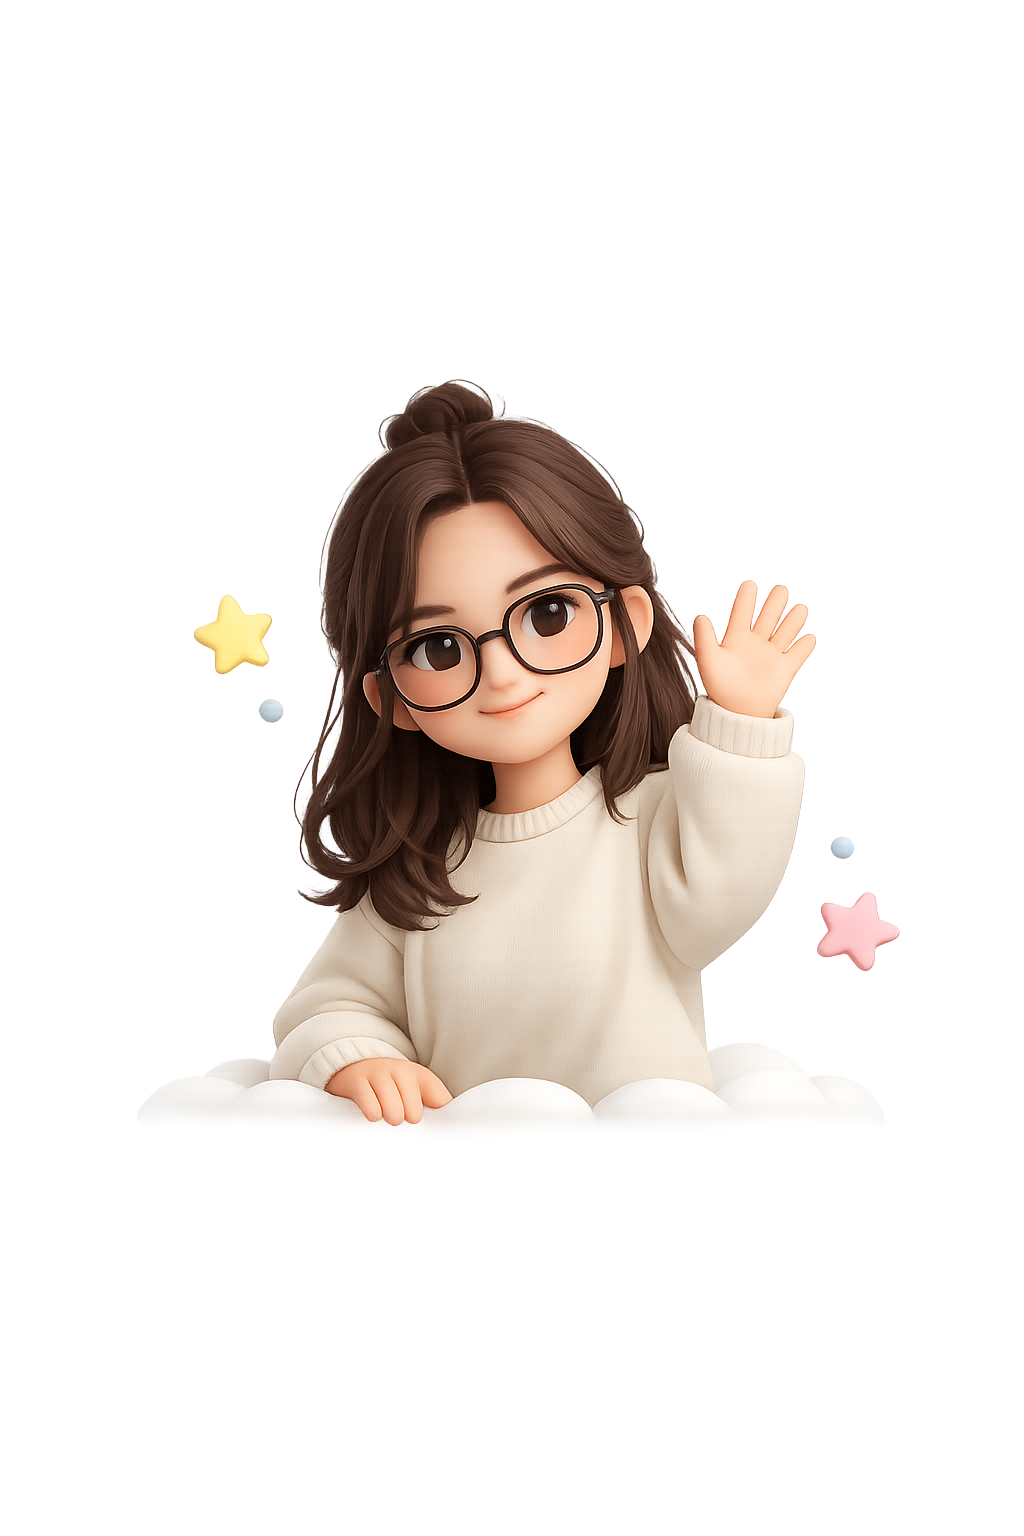
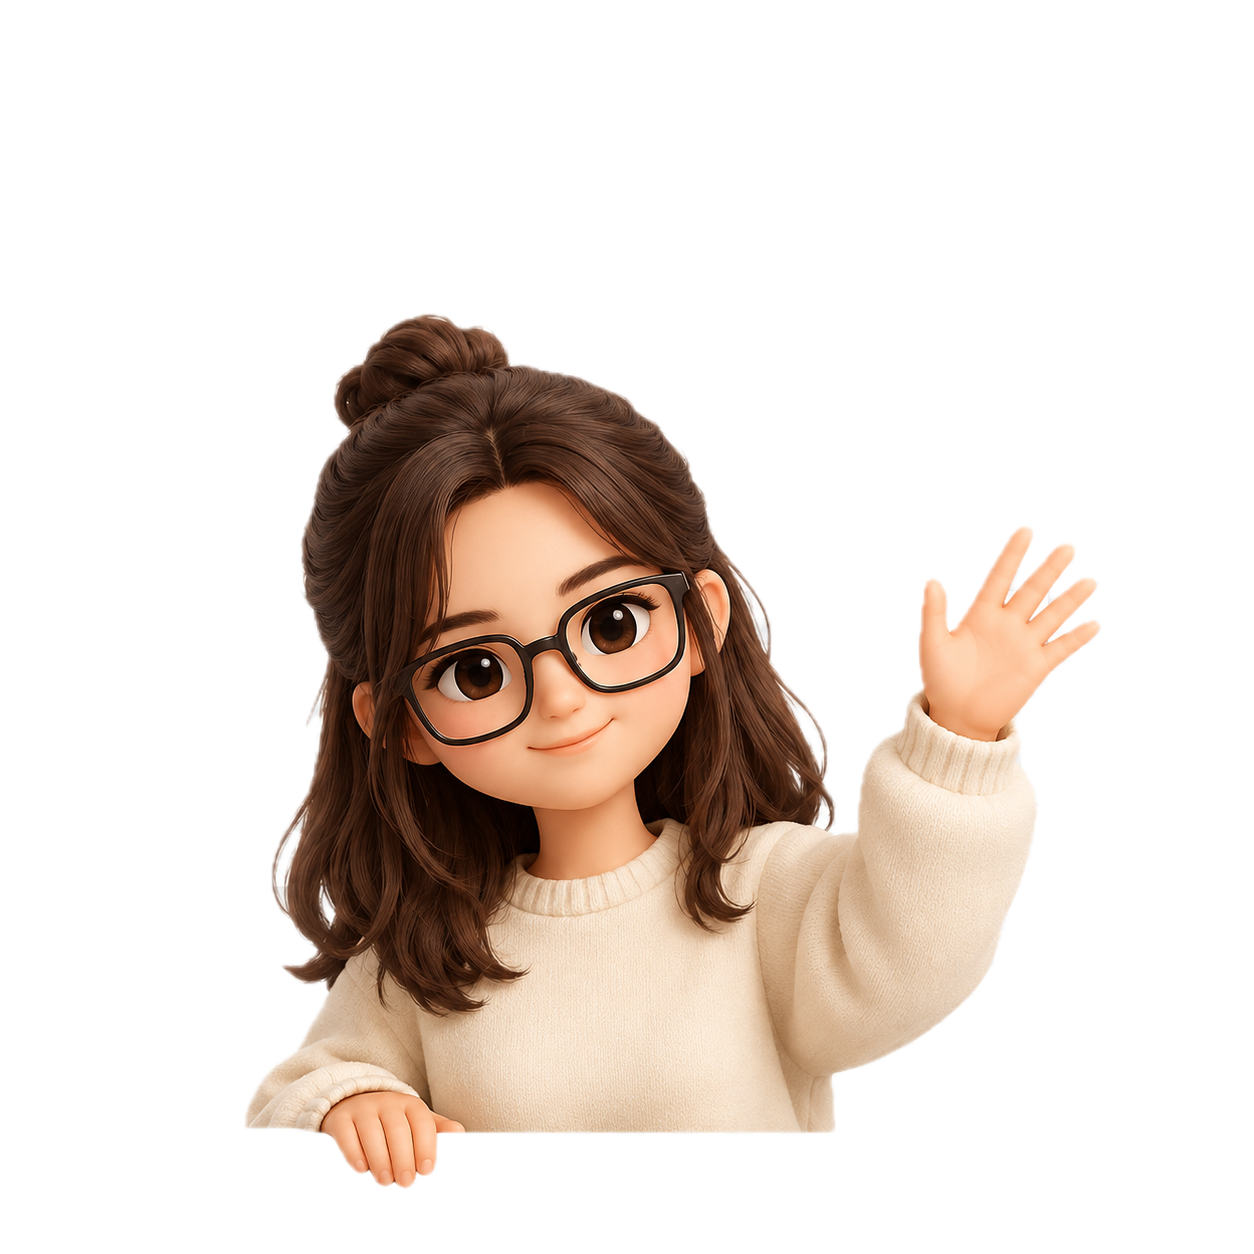
amélioration hero acceuil

diff --git a/hero-portfolio.html b/hero-portfolio.html
@@ -208,7 +208,7 @@ body { font-family: 'Poppins', sans-serif; background: var(--beige); }
 
   <!-- mini moi - bas gauche -->
   <div class="hero-icon" id="mini-me" style="left:10%; bottom:5%;">
-    <img src="mini-me.png" alt="Mini Marylou">
+    <img src="img/mini-me.png" alt="Mini Marylou">
   </div>
 
   <div class="hero-center">
